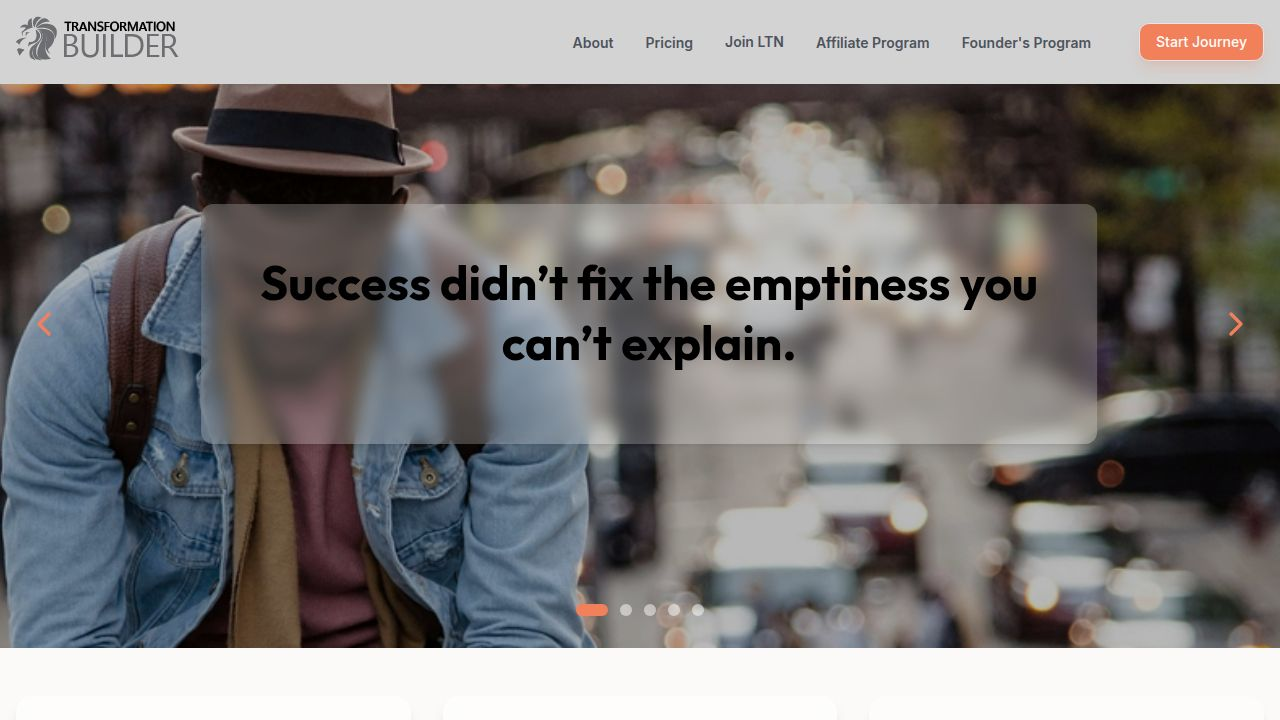
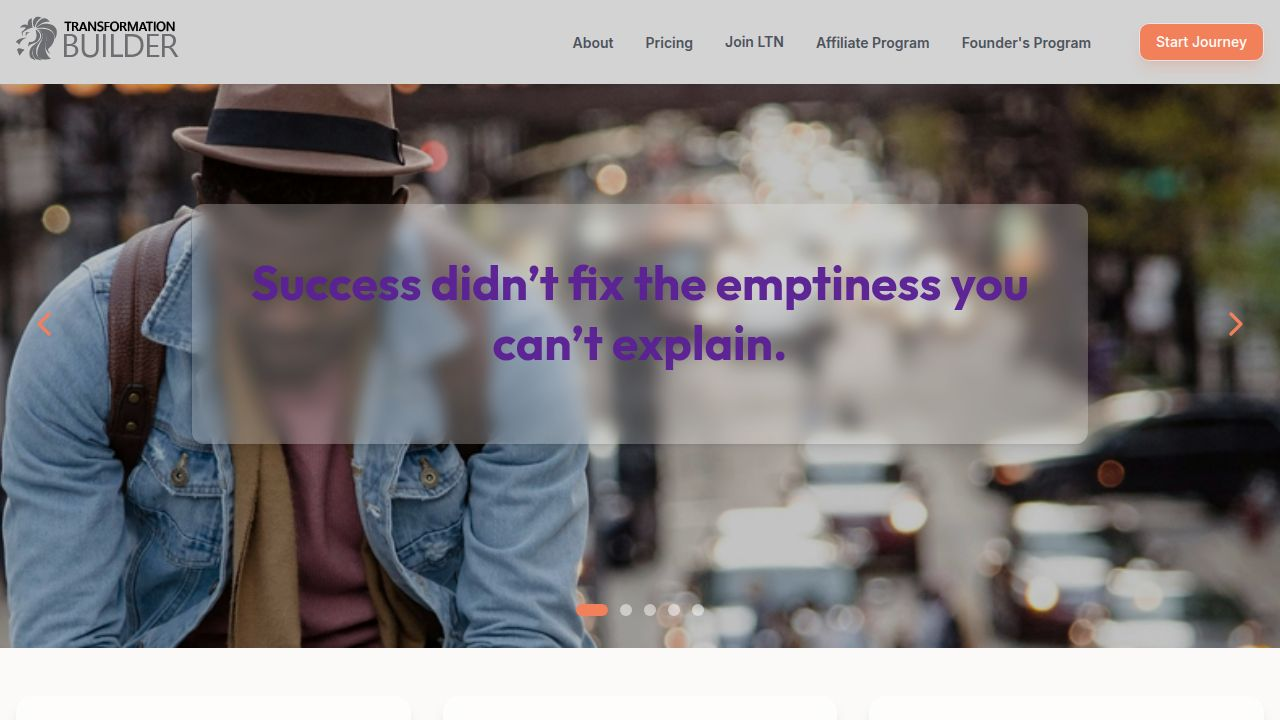
Update slider text color to purple
Change the text color within the slider component to #62259D in client/src/components/hero.tsx.

Replit-Commit-Author: Agent
Replit-Commit-Session-Id: f856b8fa-ac40-4a70-9678-bb3edadeb2c9
Replit-Commit-Checkpoint-Type: full_checkpoint
Replit-Commit-Event-Id: 718a991a-941e-4724-8cc1-ac1e66e269af
Replit-Commit-Screenshot-Url: https://storage.googleapis.com/screenshot-production-us-central1/e830f26d-e299-42ff-93b1-da7f363f46a7/f856b8fa-ac40-4a70-9678-bb3edadeb2c9/adQeixo
Replit-Helium-Checkpoint-Created: true

Changed region(s): [[0.1875, 0.3667, 0.8125, 0.5194], [0.8438, 0.275, 0.875, 0.55], [0.125, 0.3361, 0.1562, 0.6111]]

diff --git a/client/src/components/hero.tsx b/client/src/components/hero.tsx
@@ -96,7 +96,7 @@ export function Hero() {
               }}
               className="bg-white/25 backdrop-blur-sm p-8 md:p-12 rounded-lg max-w-4xl text-center shadow-lg"
             >
-              <h2 className="text-3xl md:text-5xl font-heading font-bold text-[#000000] leading-tight mb-6">
+              <h2 className="text-3xl md:text-5xl font-heading font-bold text-[#62259D] leading-tight mb-6">
                 {slides[currentSlide].text}
               </h2>
 
